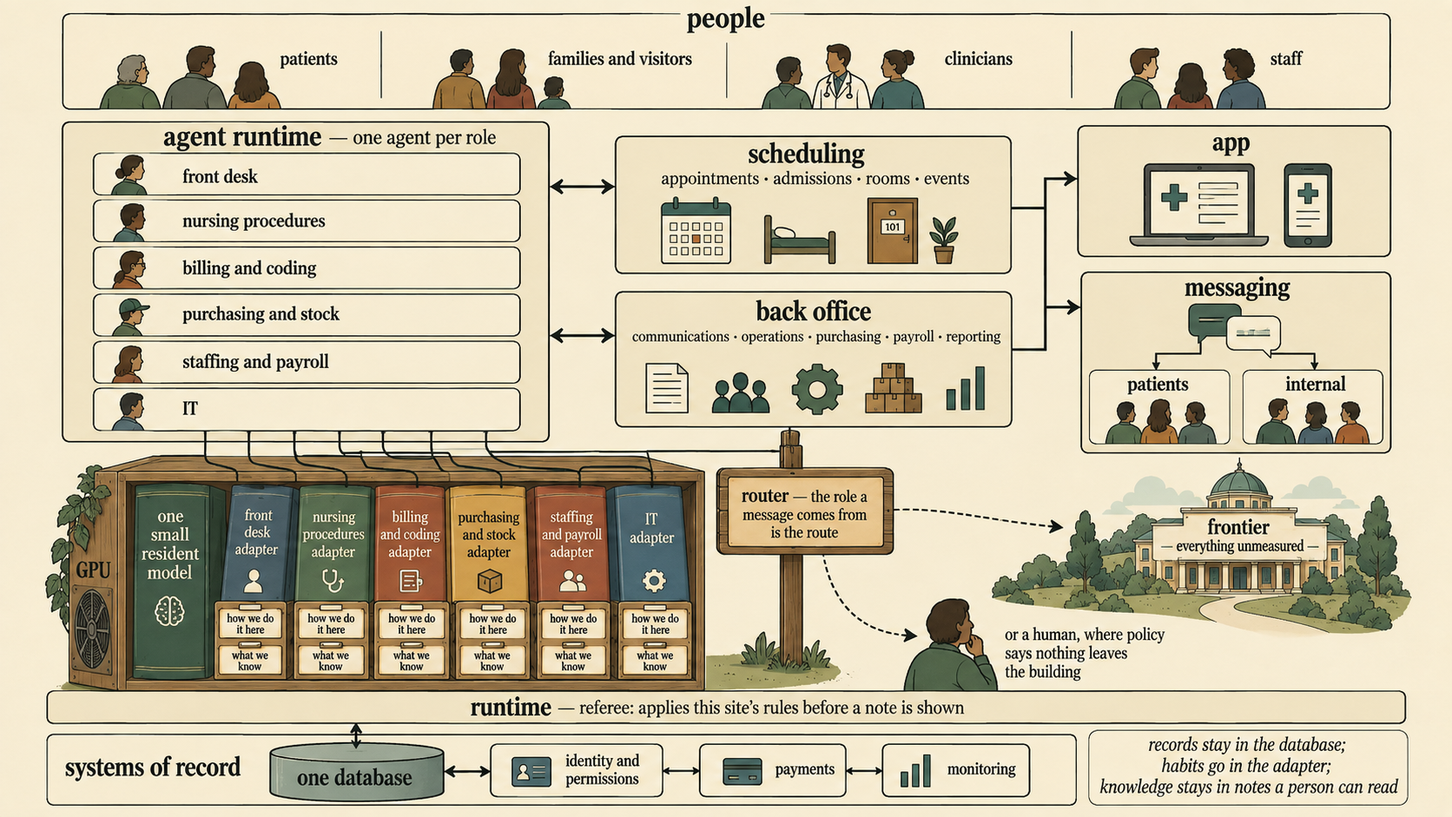
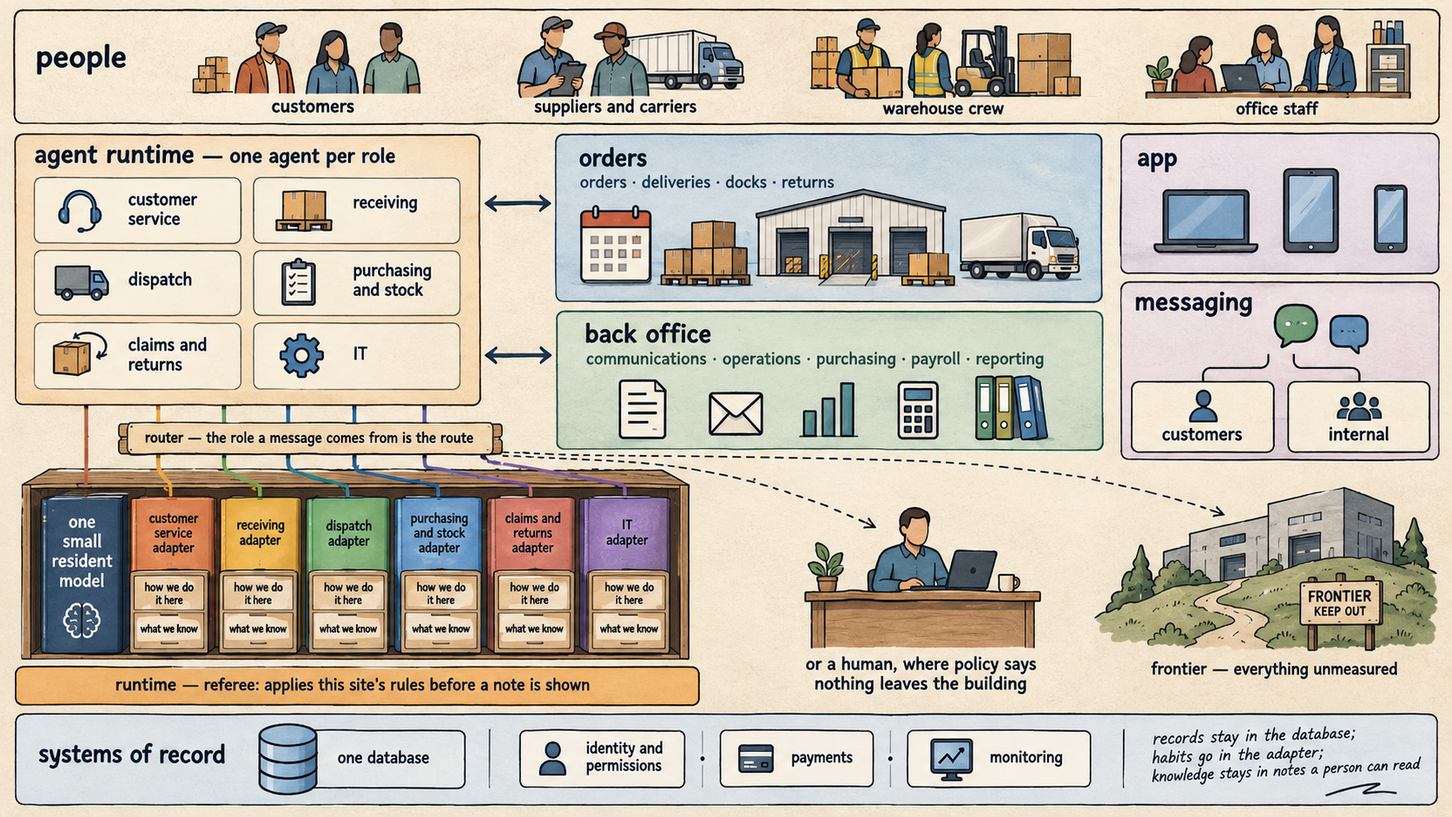
The worked example becomes a distributor: article, README and the picture's brief (en/es) (#246)
* The worked example becomes a distributor: article, README and the picture's brief (en/es)

The solution architecture is illustrated on a neutral setting — customers, suppliers and carriers,
warehouse crew, office staff; customer service, receiving, dispatch, purchasing, claims, IT — and the
table of settings drops the clinic and gains a repair company and a club. The first library stays in
the repository as technical material and is described as what it is: an open textbook's procedures.
The picture has to be redrawn from the new brief before this is merged.

* The solution-architecture picture, redrawn on the distributor example

---------

diff --git a/scripts/place-images.py b/scripts/place-images.py
@@ -23,13 +23,13 @@ IMG = ROOT / "docs" / "img"
 TEXT = {
     "solution-architecture.png": {
         "en": ("A solution architecture in five layers: people in four roles; an agent runtime with one agent per "
-               "role; scheduling and back-office applications; app and messaging channels; one database with "
+               "role; order and back-office applications; app and messaging channels; one database with "
                "identity, payments and monitoring. Under the agents, one graphics card drawn as a bookshelf: one "
                "thick spine, the resident model, and a thin spine per role, each with two drawers of notes. A "
                "signpost routes by role; dashed lines leave for the frontier and for a person.",
                "*Where it sits in an organisation: records stay in the database, habits go in the adapter, knowledge stays in notes a person can read.*"),
         "es": ("Una arquitectura de solución en cinco capas: personas en cuatro roles; un runtime de agentes con un "
-               "agente por rol; aplicaciones de agenda y administración; canales de app y mensajería; una sola base "
+               "agente por rol; aplicaciones de pedidos y administración; canales de app y mensajería; una sola base "
                "de datos con identidad, pagos y monitoreo. Debajo de los agentes, una placa gráfica dibujada como "
                "estantería: un lomo grueso, el modelo residente, y un lomo fino por rol, cada uno con dos cajones de "
                "notas. Un cartel rutea por rol; líneas punteadas salen hacia la frontera y hacia una persona.",

diff --git a/docs/articles/2026-09-era-el-arnes.es.md b/docs/articles/2026-09-era-el-arnes.es.md
@@ -4,7 +4,7 @@
 [`2026-09-it-was-the-harness.md`](2026-09-it-was-the-harness.md). Cada número de este texto sale del
 registro del repositorio ([`../es/RECORD.md`](../es/RECORD.md)) y nombra su corrida.*
 
-![Una arquitectura de solución en cinco capas: personas en cuatro roles; un runtime de agentes con un agente por rol; aplicaciones de agenda y administración; canales de app y mensajería; una sola base de datos con identidad, pagos y monitoreo. Debajo de los agentes, una placa gráfica dibujada como estantería: un lomo grueso, el modelo residente, y un lomo fino por rol, cada uno con dos cajones de notas. Un cartel rutea por rol; líneas punteadas salen hacia la frontera y hacia una persona.](../img/solution-architecture.png)
+![Una arquitectura de solución en cinco capas: personas en cuatro roles; un runtime de agentes con un agente por rol; aplicaciones de pedidos y administración; canales de app y mensajería; una sola base de datos con identidad, pagos y monitoreo. Debajo de los agentes, una placa gráfica dibujada como estantería: un lomo grueso, el modelo residente, y un lomo fino por rol, cada uno con dos cajones de notas. Un cartel rutea por rol; líneas punteadas salen hacia la frontera y hacia una persona.](../img/solution-architecture.png)
 
 *Los registros quedan en la base; los hábitos van en el adaptador; el conocimiento queda en notas que una persona puede leer.*
 
@@ -22,21 +22,22 @@ y qué parte no, con números.
 
 ## La arquitectura, capa por capa
 
-El ejemplo del dibujo es una clínica. Se lee de arriba hacia abajo.
+El ejemplo del dibujo es una distribuidora. Se lee de arriba hacia abajo.
 
-**1. Personas, en roles.** Pacientes, familias y visitantes, profesionales, personal. No son
-"usuarios": cada rol pregunta cosas distintas, por canales distintos, con permisos distintos.
+**1. Personas, en roles.** Clientes, proveedores y transportistas, el equipo del depósito, el
+personal de oficina. No son "usuarios": cada rol pregunta cosas distintas, por canales distintos, con
+permisos distintos.
 
-**2. Un runtime de agentes, con un agente por rol.** Recepción, procedimientos de enfermería,
-facturación y codificación, compras y stock, turnos y sueldos, IT. Esto ya existe y no lo
-reemplazamos: es OpenClaw, o el runtime que uses.
+**2. Un runtime de agentes, con un agente por rol.** Atención al cliente, recepción, despacho,
+compras y stock, reclamos y devoluciones, IT. Esto ya existe y no lo reemplazamos: es OpenClaw, o el
+runtime que uses.
 
-**3. Las aplicaciones y los canales.** Agenda (turnos, admisiones, salas) y administración
-(comunicaciones, operaciones, compras, sueldos, reportes); una app y la mensajería, separada en
-pacientes e interno. Tampoco los tocamos.
+**3. Las aplicaciones y los canales.** Pedidos (pedidos, entregas, muelles, devoluciones) y
+administración (comunicaciones, operaciones, compras, sueldos, reportes); una app y la mensajería,
+separada en clientes e interno. Tampoco los tocamos.
 
 **4. Los sistemas de registro.** Una sola base de datos, con identidad y permisos, pagos y monitoreo
-al lado. **Se quedan donde están.** Ningún dato de un paciente entra a un modelo por entrenamiento.
+al lado. **Se quedan donde están.** Ningún dato de un cliente entra a un modelo por entrenamiento.
 
 **5. Y la capa nueva: debajo de los agentes, una sola GPU como estantería.** Un modelo chico
 residente —4 mil millones de parámetros— y, apoyado en él, **un adaptador LoRA por rol**, de unos
@@ -46,7 +47,7 @@ fichero de dos cajones:
 
 - **"cómo lo hacemos acá"** — el arnés operativo: procedimientos paso a paso, con enlaces *requiere*,
   *siguiente*, *usa*;
-- **"lo que sabemos"** — la wiki: qué es cada cosa, qué fórmula aplica, qué dice el vademécum.
+- **"lo que sabemos"** — la wiki: qué es cada cosa, qué fórmula aplica, qué dice el catálogo.
 
 Son notas en markdown de menos de media página. **El modelo no las memoriza: aprende a navegarlas**,
 con tres verbos — buscar, abrir, calcular. *El LoRA no es el libro de texto; es el especialista que
@@ -60,7 +61,7 @@ Tres piezas más cierran el dibujo:
   a un modelo de frontera — o **a una persona, donde la política dice que nada sale del edificio.**
   Abstenerse es parte del diseño, no una falla.
 - **Un árbitro que no es IA.** Un programa chico pasa las páginas, **aplica las reglas de este lugar
-  antes de mostrar la nota** ("acá se limpia 8 segundos, no 5") y corta si el modelo se saltea un paso
+  antes de mostrar la nota** ("acá un pallet de más de 1,60 m se rearma antes de despachar") y corta si el modelo se saltea un paso
   obligatorio.
 
 La regla que ordena todo: **los registros quedan en la base, los hábitos van en el adaptador, el
@@ -69,15 +70,16 @@ se edita un archivo en git. No se reentrena nada.
 
 ## Qué se puede construir con esto
 
-La clínica es un ejemplo. La forma se repite donde haya **pocos procedimientos, repetidos a diario,
+La distribuidora es un ejemplo. La forma se repite donde haya **pocos procedimientos, repetidos a diario,
 con reglas locales que difieren del manual, sobre datos que no deberían salir:**
 
 | organización | roles que pasan a ser expertos | qué va en los dos cajones |
 |---|---|---|
-| **una clínica** | recepción, procedimientos de enfermería, facturación y codificación, compras, turnos | los protocolos del servicio por encima del manual · vademécum, aranceles, reglas de cada financiador |
+| **una distribuidora** | atención al cliente, recepción, despacho, compras, reclamos | los procedimientos de manejo del lugar · catálogo, transportistas, niveles de servicio |
 | **un estudio contable o jurídico** | ingreso de casos, revisión de documentos, vencimientos, facturación | las listas de control y plantillas del estudio · las reglas de su jurisdicción |
-| **un depósito o distribuidora** | recepción, despacho, compras, reclamos | los procedimientos de manejo del lugar · catálogo, transportistas, niveles de servicio |
 | **una escuela o centro de formación** | inscripciones, apoyo docente, comunicaciones, compras | cómo resuelve esta escuela cada caso · programa, calendario, reglamento |
+| **un taller o servicio técnico** | recepción de equipos, diagnóstico, repuestos, garantías | el procedimiento de cada tipo de reparación · manuales, listas de repuestos, condiciones de garantía |
+| **un club o centro comunitario** | socios, inscripciones a actividades, instalaciones, cobranzas | cómo resuelve este club cada caso · actividades, cuotas, reglamento interno |
 | **una administración de propiedades** | pedidos de inquilinos, mantenimiento, cobranzas, proveedores | el escalamiento por edificio · contratos, reglamentos, condiciones de proveedores |
 
 Ninguna de esas filas está medida: es hacia donde apunta el diseño. Lo que sí está medido viene
@@ -181,14 +183,14 @@ de otra manera es otro modelo, y peor. Antes de concluir que "el modelo no sirve
 - **La API rutea por pedido; el cliente no nombra ningún modelo.** En un replay de 240 casos, 0,546 →
   0,775, con 0 mal ruteados.
 - **OpenClaw en vivo contra el sistema:** 40 de 40 turnos resueltos localmente, 0 llamadas inventadas.
-- **La biblioteca existe.** La primera es el segundo rol de la clínica: procedimientos de enfermería
-  de terapia IV, de un manual abierto (CC BY 4.0) — 94 notas enlazadas que pasan un *lint*, con una
+- **La biblioteca existe.** La primera está armada con procedimientos paso a paso de un manual
+  abierto (CC BY 4.0) — 94 notas enlazadas que pasan un *lint*, con una
   capa de reglas locales de ejemplo.
 - **El árbitro existe.** Los 72 recorridos de referencia pasan por él sin un solo rechazo; los tres
   recorridos tramposos —saltearse un paso requerido, abrir una nota que nadie le mostró, ir fuera de
   orden— se cortan.
 - **Y una señal alentadora sobre leer notas:** un 4B sin entrenar pasa de 29/48 a 45/48 con la nota
-  correcta delante, y de 0/12 a 12/12 cuando la nota trae la regla local de una unidad.
+  correcta delante, y de 0/12 a 12/12 cuando la nota trae la regla local de un sitio.
 
 ## Cuando el rol es un grupo: un equipo en modo multijugador
 
@@ -261,9 +263,8 @@ Prefiero decirlo yo:
    nunca vio, sólo porque sus notas están en la biblioteca — contra el mismo modelo sin entrenar
    leyendo las mismas notas.
 3. **Un buscador que separe la tarea del contenido**, para las notas y para el router.
-4. **La primera región real:** procedimientos de enfermería como material de formación —no consejo a
-   pacientes—, con las adaptaciones de cada sitio como notas editables. Y, si aparece, **un rol de una
-   organización que ya trabaje así**: ahí la región viene dada.
+4. **La primera región real: un rol de una organización que ya trabaje así** — ahí la región viene
+   dada, con las adaptaciones de cada sitio como notas editables.
 5. **La política del servicio, con la factura medida.**
 
 Cada paso tiene escrita, antes de correr, la condición que lo daría por falso. Así fue como

diff --git a/docs/articles/2026-09-it-was-the-harness.md b/docs/articles/2026-09-it-was-the-harness.md
@@ -4,7 +4,7 @@
 [`2026-09-era-el-arnes.es.md`](2026-09-era-el-arnes.es.md). Every number here comes from the
 repository's record ([`../RECORD.md`](../RECORD.md)) and names its run.*
 
-![A solution architecture in five layers: people in four roles; an agent runtime with one agent per role; scheduling and back-office applications; app and messaging channels; one database with identity, payments and monitoring. Under the agents, one graphics card drawn as a bookshelf: one thick spine, the resident model, and a thin spine per role, each with two drawers of notes. A signpost routes by role; dashed lines leave for the frontier and for a person.](../img/solution-architecture.png)
+![A solution architecture in five layers: people in four roles; an agent runtime with one agent per role; order and back-office applications; app and messaging channels; one database with identity, payments and monitoring. Under the agents, one graphics card drawn as a bookshelf: one thick spine, the resident model, and a thin spine per role, each with two drawers of notes. A signpost routes by role; dashed lines leave for the frontier and for a person.](../img/solution-architecture.png)
 
 *Records stay in the database; habits go in the adapter; knowledge stays in notes a person can read.*
 
@@ -22,21 +22,22 @@ measured and which is not, with numbers.
 
 ## The architecture, layer by layer
 
-The drawing's example is a clinic. Read it top to bottom.
+The drawing's example is a distributor. Read it top to bottom.
 
-**1. People, in roles.** Patients, families and visitors, clinicians, staff. They are not "users":
-each role asks different things, over different channels, with different permissions.
+**1. People, in roles.** Customers, suppliers and carriers, the warehouse crew, the office staff.
+They are not "users": each role asks different things, over different channels, with different
+permissions.
 
-**2. An agent runtime, with one agent per role.** Front desk, nursing procedures, billing and
-coding, purchasing and stock, staffing and payroll, IT. This exists already and we do not replace it:
-it is OpenClaw, or whichever runtime you use.
+**2. An agent runtime, with one agent per role.** Customer service, receiving, dispatch, purchasing
+and stock, claims and returns, IT. This exists already and we do not replace it: it is OpenClaw, or
+whichever runtime you use.
 
-**3. The applications and the channels.** Scheduling (appointments, admissions, rooms) and back
-office (communications, operations, purchasing, payroll, reporting); an app, and messaging split into
-patients and internal. We do not touch these either.
+**3. The applications and the channels.** Orders (orders, deliveries, docks, returns) and back office
+(communications, operations, purchasing, payroll, reporting); an app, and messaging split into
+customers and internal. We do not touch these either.
 
 **4. The systems of record.** One database, with identity and permissions, payments and monitoring
-beside it. **They stay where they are.** No patient's data enters a model through training.
+beside it. **They stay where they are.** No customer's data enters a model through training.
 
 **5. And the new layer: under the agents, a single GPU as a bookshelf.** One small resident model —
 4 billion parameters — and, leaning on it, **one LoRA adapter per role**, about 120 MB each. Where
@@ -45,7 +46,7 @@ on how *this* organisation does *that* job. And every expert has a two-drawer ca
 
 - **"how we do it here"** — the operational harness: step-by-step procedures, linked by *requires*,
   *next*, *uses*;
-- **"what we know"** — the wiki: what each thing is, which formula applies, what the formulary says.
+- **"what we know"** — the wiki: what each thing is, which formula applies, what the catalogue says.
 
 They are markdown notes under half a page. **The model does not memorise them: it learns to navigate
 them**, with three verbs — search, open, calc. *The LoRA is not the textbook; it is the specialist who
@@ -59,7 +60,7 @@ Three more pieces close the drawing:
   frontier model — or **to a person, where policy says nothing leaves the building.** Abstaining is
   part of the design, not a failure.
 - **A referee that is not AI.** A small program turns the pages, **applies this site's rules before a
-  note is shown** ("here we scrub for 8 seconds, not 5") and cuts the walk if the model skips a
+  note is shown** ("here a pallet over 1.6 m is re-stacked before dispatch") and cuts the walk if the model skips a
   required step.
 
 The rule that orders everything: **records stay in the database, habits go in the adapter, knowledge
@@ -68,15 +69,16 @@ in git. Nothing is retrained.
 
 ## What you can build with it
 
-The clinic is one example. The shape repeats wherever there are **a few procedures, repeated daily,
+The distributor is one example. The shape repeats wherever there are **a few procedures, repeated daily,
 with local rules that differ from the textbook, over data that should not leave:**
 
 | organisation | roles that become experts | what goes in the two drawers |
 |---|---|---|
-| **a clinic** | front desk, nursing procedures, billing and coding, purchasing, staffing | the unit's protocols over the textbook's · formulary, tariffs, payer rules |
+| **a distributor** | customer service, receiving, dispatch, purchasing, claims | the site's handling procedures · catalogue, carriers, service levels |
 | **an accounting or law office** | intake, document review, deadlines, billing | the firm's checklists and templates · the rules of its jurisdiction |
-| **a warehouse or distributor** | receiving, dispatch, purchasing, claims | the site's handling procedures · catalogue, carriers, service levels |
 | **a school or training centre** | enrolment, teaching support, communications, purchasing | how this school handles each case · programme, calendar, regulations |
+| **a repair or field-service company** | equipment intake, diagnosis, spare parts, warranties | the procedure for each kind of repair · manuals, parts lists, warranty terms |
+| **a club or community centre** | memberships, activity sign-ups, facilities, collections | how this club handles each case · activities, fees, house rules |
 | **a property manager** | tenant requests, maintenance, collections, suppliers | escalation per building · contracts, by-laws, supplier terms |
 
 None of those rows is measured: they are where the design points. What is measured comes below.
@@ -177,14 +179,13 @@ different model, and a worse one. Before concluding that "the model can't do thi
 - **The API routes per request; the client names no model.** On a 240-case replay, 0.546 → 0.775,
   with 0 misrouted.
 - **OpenClaw, live, against the system:** 40 of 40 turns resolved locally, 0 invented calls.
-- **The library exists.** The first one is the clinic's second role: IV-therapy nursing procedures
-  from an open textbook (CC BY 4.0) — 94 linked notes that pass a lint, with an example layer of
-  local rules.
+- **The library exists.** The first one is built from the step-by-step procedures of an open
+  textbook (CC BY 4.0) — 94 linked notes that pass a lint, with an example layer of local rules.
 - **The referee exists.** All 72 reference walks pass through it without one refusal; the three
   cheating walks — skipping a required step, opening a note nobody showed it, going out of order —
   are cut.
 - **And an encouraging sign about reading notes:** an untrained 4B goes from 29/48 to 45/48 with the
-  right note open, and from 0/12 to 12/12 when the note carries a unit's local rule.
+  right note open, and from 0/12 to 12/12 when the note carries a site's local rule.
 
 ## When the role is a group: a team in multiplayer mode
 
@@ -256,9 +257,8 @@ I would rather say it myself:
 2. **The test that can kill the library:** the expert solves a sibling procedure it never saw, only
    because its notes are in the library — against the same untrained model reading the same notes.
 3. **A search that separates the task from its content**, for the notes and for the router.
-4. **The first real region:** nursing procedures as training material — not advice to patients —
-   with each site's adaptations as editable notes. And, if one appears, **a role in an organisation
-   that already works this way**: there the region is given.
+4. **The first real region: a role in an organisation that already works this way** — there the
+   region is given, with each site's adaptations as editable notes.
 5. **The service policy, with the bill measured.**
 
 Every step has, written before it runs, the condition that would prove it false. That is how we found

diff --git a/README.es.md b/README.es.md
@@ -186,7 +186,7 @@ el resto va a la frontera, o a una persona donde la política dice que nada sale
 sistemas de registro quedan donde están: **los registros quedan en la base, los hábitos van en el
 adaptador, el conocimiento queda en notas que una persona puede leer y corregir.**
 
-![Una arquitectura de solución en cinco capas: personas en cuatro roles; un runtime de agentes con un agente por rol; aplicaciones de agenda y administración; canales de app y mensajería; una sola base de datos con identidad, pagos y monitoreo. Debajo de los agentes, una placa gráfica dibujada como estantería: un lomo grueso, el modelo residente, y un lomo fino por rol, cada uno con dos cajones de notas. Un cartel rutea por rol; líneas punteadas salen hacia la frontera y hacia una persona.](docs/img/solution-architecture.png)
+![Una arquitectura de solución en cinco capas: personas en cuatro roles; un runtime de agentes con un agente por rol; aplicaciones de pedidos y administración; canales de app y mensajería; una sola base de datos con identidad, pagos y monitoreo. Debajo de los agentes, una placa gráfica dibujada como estantería: un lomo grueso, el modelo residente, y un lomo fino por rol, cada uno con dos cajones de notas. Un cartel rutea por rol; líneas punteadas salen hacia la frontera y hacia una persona.](docs/img/solution-architecture.png)
 
 *Dónde se ubica en una organización: los registros quedan en la base, los hábitos van en el adaptador, el conocimiento queda en notas que una persona puede leer.*
 
@@ -194,16 +194,17 @@ La misma forma, en otros ámbitos — ninguno está medido, es hacia donde apunt
 
 | organización | roles que pasan a ser expertos | qué va en los dos cajones |
 |---|---|---|
-| **una clínica** | recepción, procedimientos de enfermería, facturación y codificación, compras, turnos del personal | los protocolos del servicio por encima del manual · vademécum, aranceles, reglas de cada financiador |
+| **una distribuidora** | atención al cliente, recepción, despacho, compras, reclamos | los procedimientos de manejo del lugar · catálogo, transportistas, niveles de servicio |
 | **un estudio contable o jurídico** | ingreso de casos, revisión de documentos, vencimientos, facturación | las listas de control y plantillas del estudio · las reglas de su jurisdicción, cliente por cliente |
-| **un depósito o distribuidora** | recepción, despacho, compras, reclamos | los procedimientos de manejo del lugar · catálogo, transportistas, niveles de servicio |
 | **una escuela o centro de formación** | inscripciones, apoyo docente, comunicaciones, compras | cómo resuelve esta escuela cada caso · programa, calendario, reglamento |
+| **un taller o servicio técnico** | recepción de equipos, diagnóstico, repuestos, garantías | el procedimiento de cada tipo de reparación · manuales, listas de repuestos, condiciones de garantía |
+| **un club o centro comunitario** | socios, inscripciones a actividades, instalaciones, cobranzas | cómo resuelve este club cada caso · actividades, cuotas, reglamento interno |
 | **una administración de propiedades** | pedidos de inquilinos, mantenimiento, cobranzas, proveedores | el procedimiento de escalamiento por edificio · contratos, reglamentos, condiciones de proveedores |
 
 Lo que comparten es lo que hace que una región merezca un experto: **los mismos pocos procedimientos,
 repetidos a diario, con reglas locales que difieren del manual, sobre datos que no deberían salir.**
-La primera biblioteca de este repositorio es el segundo rol de la clínica — procedimientos de
-enfermería de terapia IV ([`knowledge/nursing-iv/`](knowledge/nursing-iv/)). Lo que *no* está
+La primera biblioteca de este repositorio está armada con los procedimientos paso a paso de un manual
+abierto ([`knowledge/nursing-iv/`](knowledge/nursing-iv/)). Lo que *no* está
 establecido está en la sección de arriba, y vale acá entero: todavía no hay datos reales, y la
 afirmación de que una biblioteca extiende a un experto a un procedimiento que nunca entrenó no está
 probada.

diff --git a/docs/img/README.md b/docs/img/README.md
@@ -52,4 +52,4 @@ A clean left-to-right flow in the same style, five stations on one line: "client
 
 ### `solution-architecture.png`
 
-One wide solution-architecture diagram in the repository's warm flat style, five layers top to bottom. TOP, one long band "people": four groups with small faceless silhouettes — "patients", "families and visitors", "clinicians", "staff". LEFT COLUMN, a tall box "agent runtime — one agent per role", holding six cards: "front desk", "nursing procedures", "billing and coding", "purchasing and stock", "staffing and payroll", "IT". CENTRE, two boxes the agents exchange arrows with: "scheduling" (appointments · admissions · rooms · events) and "back office" (communications · operations · purchasing · payroll · reporting). RIGHT COLUMN, the channels: "app", and "messaging" splitting into "patients" and "internal". BOTTOM, the systems of record: one drum "one database" and three small boxes, "identity and permissions", "payments", "monitoring" — generic, no brand names, no logos. NOW THE POINT OF THE PICTURE: under the agent-runtime column, where a cloud API would normally be, draw ONE graphics card as a bookshelf — a thick spine "one small resident model" and six thin coloured spines, one per role card above, each joined to its card by a thin line. Under each thin spine a two-drawer card file: "how we do it here" and "what we know". A small signpost sits between the runtime and the shelf: "router — the role a message comes from is the route". A dashed line leaves the signpost for a distant building, "frontier — everything unmeasured", and a second dashed line ends at a person: "or a human, where policy says nothing leaves the building". A thin band under the shelf: "runtime — referee: applies this site's rules before a note is shown". One caption inside the image, bottom right: "records stay in the database; habits go in the adapter; knowledge stays in notes a person can read".
+One wide solution-architecture diagram in the repository's warm flat style (ink on parchment, serif lettering), five layers top to bottom. TOP, one long band "people": four groups with small faceless silhouettes — "customers", "suppliers and carriers", "warehouse crew", "office staff". LEFT COLUMN, a tall box "agent runtime — one agent per role", holding six cards: "customer service", "receiving", "dispatch", "purchasing and stock", "claims and returns", "IT". CENTRE, two boxes the agents exchange arrows with: "orders" (orders · deliveries · docks · returns) and "back office" (communications · operations · purchasing · payroll · reporting). RIGHT COLUMN, the channels: "app", and "messaging" splitting into "customers" and "internal". BOTTOM, the systems of record: one drum "one database" and three small boxes, "identity and permissions", "payments", "monitoring" — generic, no brand names, no logos. THE POINT OF THE PICTURE: under the agent-runtime column, where a cloud API would normally be, draw ONE graphics card as a bookshelf — a thick spine "one small resident model" and six thin coloured spines, one per role card above ("customer service adapter", "receiving adapter", …), each joined to its card by a thin line. Under each thin spine a two-drawer card file: "how we do it here" and "what we know". A small signpost sits between the runtime and the shelf: "router — the role a message comes from is the route". A dashed line leaves the signpost for a distant building, "frontier — everything unmeasured", and a second dashed line ends at a person: "or a human, where policy says nothing leaves the building". A thin band under the shelf: "runtime — referee: applies this site's rules before a note is shown". One caption inside the image, bottom right: "records stay in the database; habits go in the adapter; knowledge stays in notes a person can read". Icons: boxes, pallets, a truck, a loading dock, a calendar. No medical imagery of any kind.

diff --git a/README.md b/README.md
@@ -176,7 +176,7 @@ frontier, or to a person where policy says nothing leaves the building. The syst
 where they are: **records stay in the database, habits go in the adapter, knowledge stays in notes a
 person can read and correct.**
 
-![A solution architecture in five layers: people in four roles; an agent runtime with one agent per role; scheduling and back-office applications; app and messaging channels; one database with identity, payments and monitoring. Under the agents, one graphics card drawn as a bookshelf: one thick spine, the resident model, and a thin spine per role, each with two drawers of notes. A signpost routes by role; dashed lines leave for the frontier and for a person.](docs/img/solution-architecture.png)
+![A solution architecture in five layers: people in four roles; an agent runtime with one agent per role; order and back-office applications; app and messaging channels; one database with identity, payments and monitoring. Under the agents, one graphics card drawn as a bookshelf: one thick spine, the resident model, and a thin spine per role, each with two drawers of notes. A signpost routes by role; dashed lines leave for the frontier and for a person.](docs/img/solution-architecture.png)
 
 *Where it sits in an organisation: records stay in the database, habits go in the adapter, knowledge stays in notes a person can read.*
 
@@ -184,15 +184,16 @@ The same shape, in other rooms — none of these is measured, they are where the
 
 | organisation | roles that become experts | what goes in the two drawers |
 |---|---|---|
-| **a clinic** | front desk, nursing procedures, billing and coding, purchasing, staffing | the unit's protocols over the textbook's · formulary, tariffs, payer rules |
+| **a distributor** | customer service, receiving, dispatch, purchasing, claims | the site's handling procedures · catalogue, carriers, service levels |
 | **an accounting or law office** | intake, document review, deadlines, billing | the firm's checklists and templates · the rules of its jurisdiction, client by client |
-| **a warehouse or distributor** | receiving, dispatch, purchasing, claims | the site's handling procedures · catalogue, carriers, service levels |
 | **a school or training centre** | enrolment, teaching support, communications, purchasing | how this school handles each case · programme, calendar, regulations |
+| **a repair or field-service company** | equipment intake, diagnosis, spare parts, warranties | the procedure for each kind of repair · manuals, parts lists, warranty terms |
+| **a club or community centre** | memberships, activity sign-ups, facilities, collections | how this club handles each case · activities, fees, house rules |
 | **a property manager** | tenant requests, maintenance, collections, suppliers | the escalation procedure per building · contracts, by-laws, supplier terms |
 
 What they share is what makes a region worth an expert: **the same few procedures, repeated daily,
 with local rules that differ from the textbook, over data that should not leave.** The first library
-in this repository is the clinic's second role — IV-therapy nursing procedures
+in this repository is built from an open textbook's step-by-step procedures
 ([`knowledge/nursing-iv/`](knowledge/nursing-iv/)). What is *not* established is in the section
 above, and it applies here in full: no real data yet, and the claim that a library extends an expert
 to a procedure it never trained on is untested.
